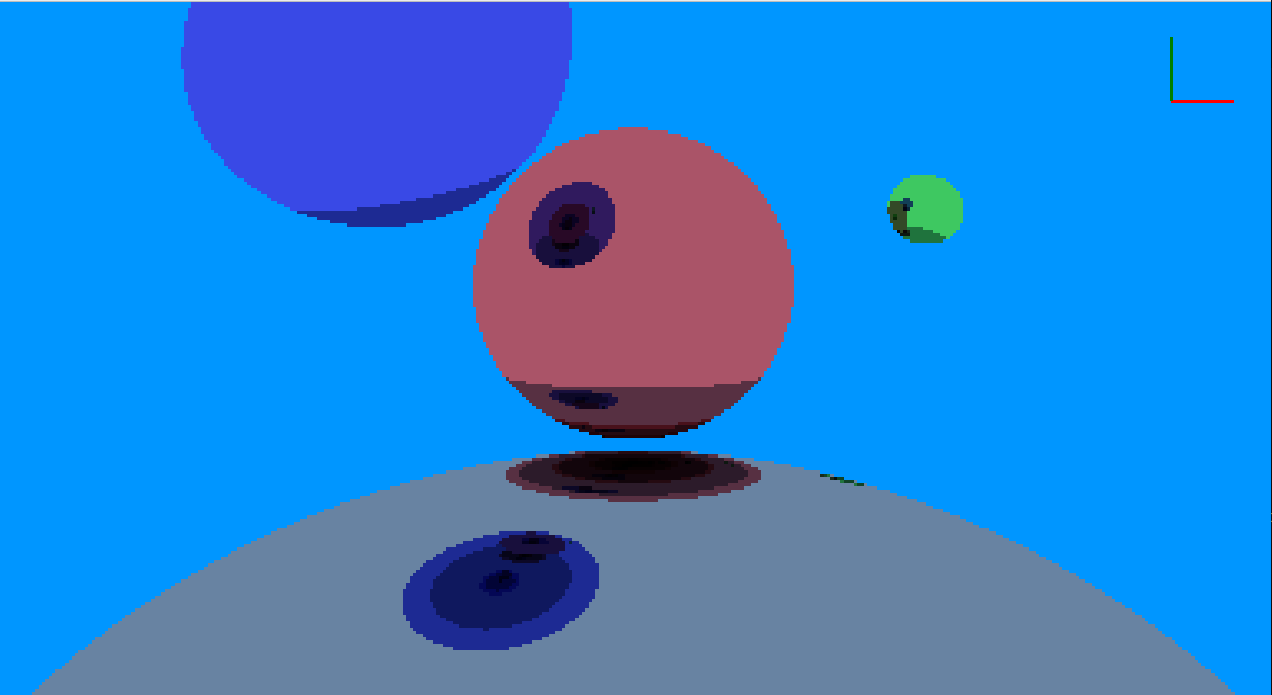
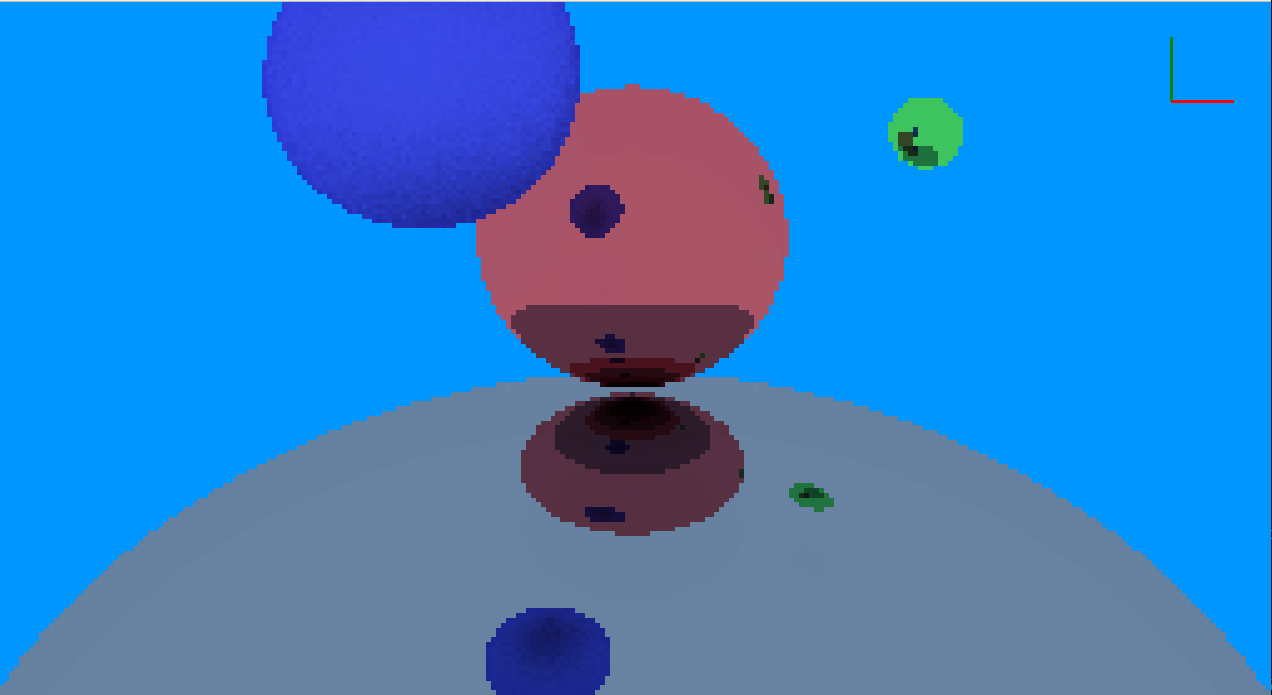
readme

Changed region(s): [[0.0, 0.0, 1.0, 1.0], [0.6745, 0.1209, 0.7665, 0.3626], [0.6132, 0.3022, 0.6439, 0.3324]]

diff --git a/src/App.cs b/src/App.cs
@@ -17,7 +17,7 @@ public class App {
     };
 
     public static void Main() {
-        App.sphere[3].material.roughnes = 1;
+        App.sphere[2].material.roughnes = 1;
         App.sphere[2].material.emissive = 1;
 
         App.camara = new Camara();
